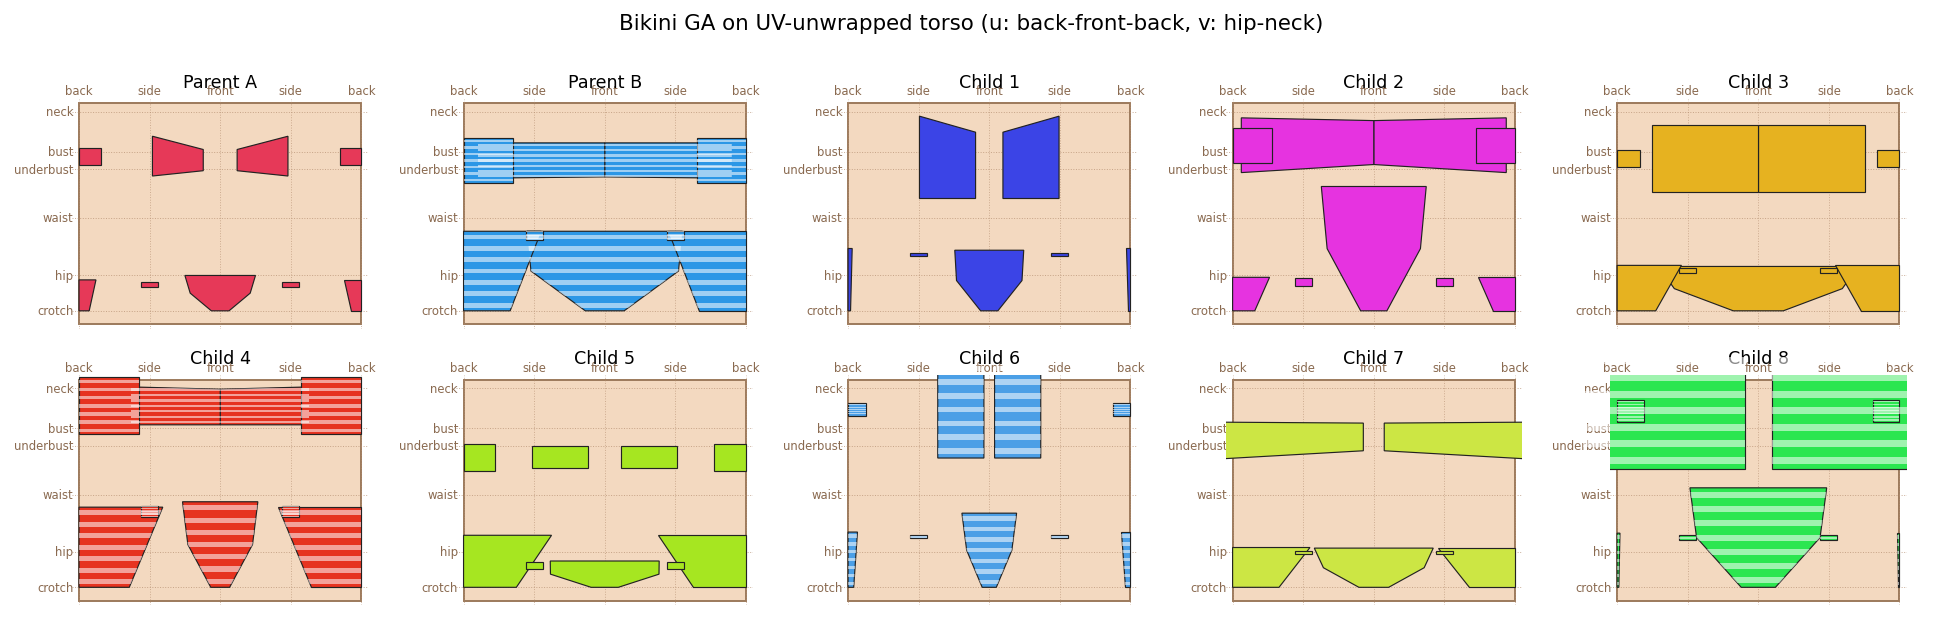
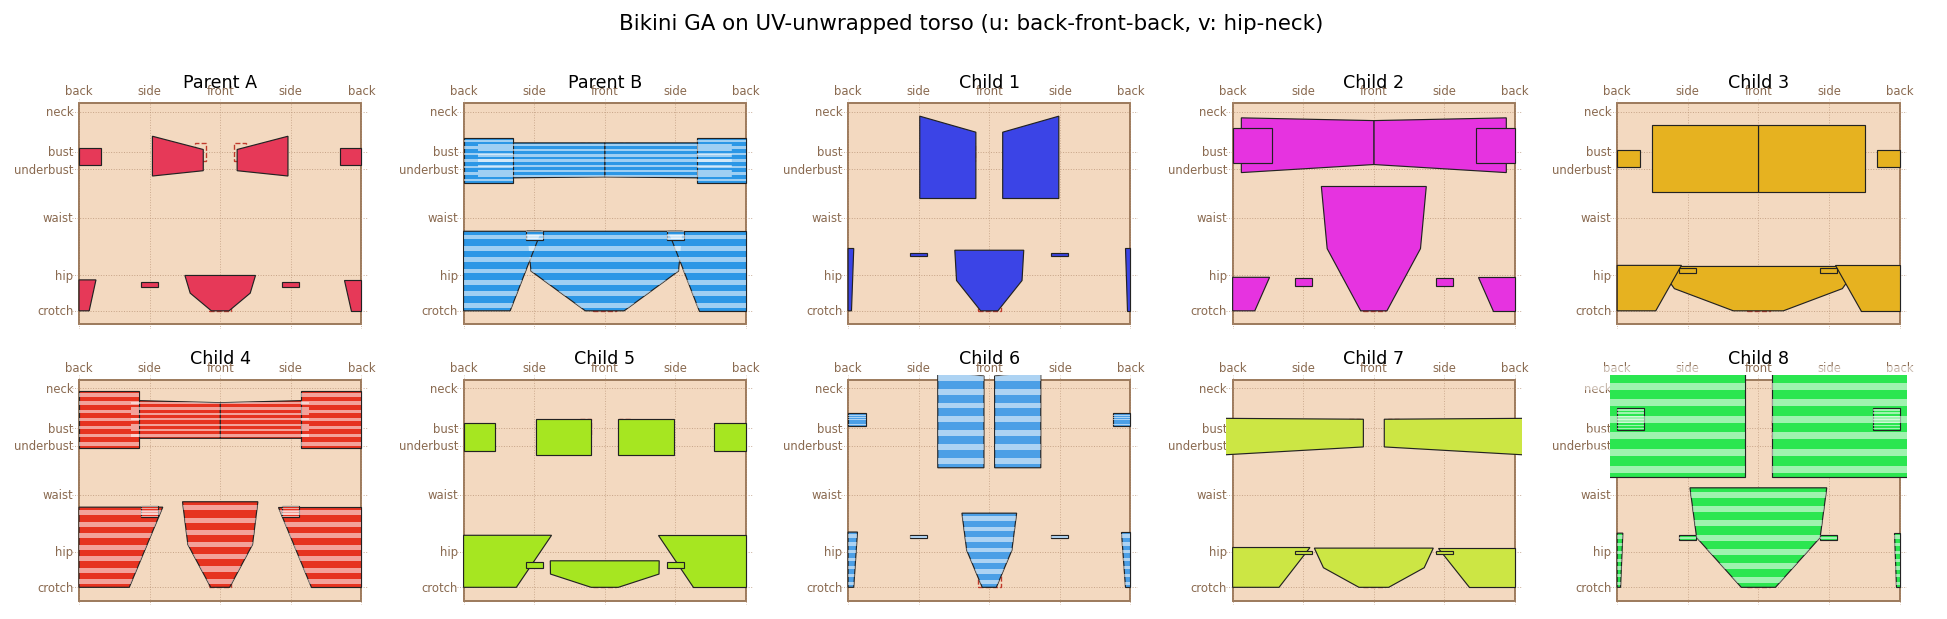
ga: enforce privacy seeds as Genome lower bound (no overlay)
Define three minimum-coverage rectangles in UV space (PRIVACY_SEEDS):
two nipple zones at u=+/-[0.10, 0.18] x v=[0.74, 0.82] and a pelvic zone
at u=[-0.08, 0.08] x v=[0.06, 0.14]. _enforce_constraints clamps Genome
parameters analytically so each polygon naturally contains its seed:

- top_center_v anchored within +/-0.04 of the nipple seed midline
- top_half_v / top_half_u expanded if the seed would poke out
- top_inner_u capped at the seed's inner edge
- top_apex_lift / top_underband_dip capped so the V/U dip can't cut into
  the seed
- bot_front_top_v raised above the pelvic seed top
- bot_front_half_u widened, bot_front_leg_curve clamped so the leg cuts
  don't shrink the front panel below the seed half-width

Crucially: the seed is a lower bound on the polygons themselves, not an
overlay painted on top — bikinis grow from the seed boundary outward, so
coverage looks like a bikini, not a graft.

Seeds are also drawn on the 2D verification figure as red dashed
rectangles for visual reference.

diff --git a/tools/verify_ga_uv.py b/tools/verify_ga_uv.py
@@ -43,6 +43,18 @@ LANDMARKS_V = {
 }
 PATTERNS = ["solid", "stripe", "polka", "checker"]
 
+# Privacy seeds: minimum-coverage rectangles in UV space. Every Genome's
+# polygons must CONTAIN these — `_enforce_constraints` clamps the Genome
+# parameters so the trapezoidal cups and front panel grow to at least
+# this size. They are not overlays painted on top; they're a lower bound
+# baked into the parameter ranges, so the bikini smoothly grows from them.
+#   (u_lo, u_hi, v_lo, v_hi)
+PRIVACY_SEEDS = {
+    "right_nipple": (0.10, 0.18, 0.74, 0.82),
+    "left_nipple":  (-0.18, -0.10, 0.74, 0.82),
+    "pelvic_front": (-0.08, 0.08, 0.06, 0.14),
+}
+
 # Continuous Genome fields. Kept flat so GA operators are uniform.
 CONT_FIELDS = [
     # TOP
@@ -135,21 +147,71 @@ def mutate(g: Genome, rng: random.Random) -> Genome:
 
 
 def _enforce_constraints(g: Genome) -> Genome:
-    """Soft rules to keep polygons non-degenerate."""
+    """Hard rules: keep polygons non-degenerate AND guarantee they contain
+    the PRIVACY_SEEDS. Each clamp below is derived analytically from the
+    polygon shape — never paints over the result, just constrains parameters
+    so the trapezoidal cups / front panel grow at least to the seed extent.
+    """
     d = g.as_dict()
-    # a cup must have a minimum area
+
+    # --- privacy seeds for the cup (right nipple drives both due to symmetry)
+    s_u_lo, s_u_hi, s_v_lo, s_v_hi = PRIVACY_SEEDS["right_nipple"]
+
+    # cup must straddle the seed vertically: cv+hv >= s_v_hi, cv-hv <= s_v_lo
+    # so cv ∈ [s_v_hi - hv_min, s_v_lo + hv_min] and hv >= max(s_v_hi-cv, cv-s_v_lo)
+    # we anchor cv into a band centered on the seed midline first, then enlarge hv.
+    seed_mid_v = (s_v_lo + s_v_hi) / 2
+    seed_half_v = (s_v_hi - s_v_lo) / 2
+    d["top_center_v"] = float(np.clip(d["top_center_v"],
+                                       seed_mid_v - 0.04,
+                                       seed_mid_v + 0.04))
+    needed_hv = max(seed_half_v + 0.01,
+                    abs(d["top_center_v"] - s_v_hi),
+                    abs(d["top_center_v"] - s_v_lo))
+    d["top_half_v"] = max(d["top_half_v"], needed_hv)
+
+    # cup must cover the seed in u: inner edge <= s_u_lo, outer edge >= s_u_hi
+    d["top_inner_u"] = min(d["top_inner_u"], s_u_lo - 0.005)
+    d["top_inner_u"] = max(d["top_inner_u"], 0.0)
+    needed_hu = max(0.05, (s_u_hi - d["top_inner_u"] + 0.01) / 2.0)
+    d["top_half_u"] = max(d["top_half_u"], needed_hu)
+
+    # apex_lift drops the inner-top edge by apex*0.6 — cap so it stays
+    # above the seed top: cv + hv - apex*0.6 >= s_v_hi
+    apex_max = (d["top_center_v"] + d["top_half_v"] - s_v_hi) / 0.6
+    d["top_apex_lift"] = min(d["top_apex_lift"], max(0.0, apex_max))
+
+    # underband_dip raises the inner-bottom edge by dip*0.3 — cap so it stays
+    # below the seed bottom: cv - hv + dip*0.3 <= s_v_lo
+    dip_max = (s_v_lo - d["top_center_v"] + d["top_half_v"]) / 0.3
+    d["top_underband_dip"] = min(d["top_underband_dip"], max(0.0, dip_max))
+
+    # --- privacy seed for the front panel (pelvic_front)
+    p_u_lo, p_u_hi, p_v_lo, p_v_hi = PRIVACY_SEEDS["pelvic_front"]
+    # panel top must be at or above the seed top
+    d["bot_front_top_v"] = max(d["bot_front_top_v"], p_v_hi + 0.04)
+    # at the polygon's narrowest point (midline) width = hu*(1 - leg/2);
+    # require this to cover the seed half-width comfortably
+    needed_front_hu = max((p_u_hi + 0.01) / max(1e-3, 1 - 0.5 * d["bot_front_leg_curve"]),
+                          p_u_hi + 0.01)
+    d["bot_front_half_u"] = max(d["bot_front_half_u"], needed_front_hu)
+    # if leg curve is too aggressive given hu, reduce it
+    max_leg = 2 * (1 - (p_u_hi + 0.01) / d["bot_front_half_u"])
+    d["bot_front_leg_curve"] = min(d["bot_front_leg_curve"], max(0.0, max_leg))
+
+    # --- minimum back coverage so back panels never collapse to nothing
+    d["bot_back_half_u"] = max(d["bot_back_half_u"], 0.04)
+
+    # --- non-degeneracy guards (kept from before)
     d["top_half_v"] = max(d["top_half_v"], 0.05)
     d["top_half_u"] = max(d["top_half_u"], 0.05)
-    # bottom panels must be wider than zero
     d["bot_front_half_u"] = max(d["bot_front_half_u"], 0.05)
-    d["bot_back_half_u"]  = max(d["bot_back_half_u"],  0.02)
-    # top cannot dip so hard that the two edges cross
-    max_lift = 0.9 * d["top_half_v"]
-    d["top_apex_lift"] = min(d["top_apex_lift"], max_lift)
-    # front panel top must sit below the cup
+
+    # front panel top must sit below the cup bottom
     cup_bottom_v = d["top_center_v"] - d["top_half_v"]
     if d["bot_front_top_v"] > cup_bottom_v - 0.02:
-        d["bot_front_top_v"] = max(0.15, cup_bottom_v - 0.05)
+        d["bot_front_top_v"] = max(p_v_hi + 0.04, cup_bottom_v - 0.05)
+
     return Genome(**d)
 
 
@@ -285,6 +347,11 @@ def _draw_uv_canvas(ax):
     for u, name in [(-1.0, "back"), (-0.5, "side"), (0.0, "front"), (0.5, "side"), (1.0, "back")]:
         ax.axvline(u, color="#b38c6e", linewidth=0.5, linestyle=":", zorder=1.5, alpha=0.6)
         ax.text(u, 1.04, name, fontsize=6, color="#8a6a50", ha="center")
+    # privacy seeds: dashed outlines that all genome polygons must enclose
+    for name, (u0, u1, v0, v1) in PRIVACY_SEEDS.items():
+        ax.add_patch(Rectangle((u0, v0), u1 - u0, v1 - v0,
+                               fill=False, edgecolor="#c0392b", linewidth=0.7,
+                               linestyle="--", zorder=2.0))
     ax.set_xticks([])
     ax.set_yticks([])
     for side in ("left", "right", "top", "bottom"):
